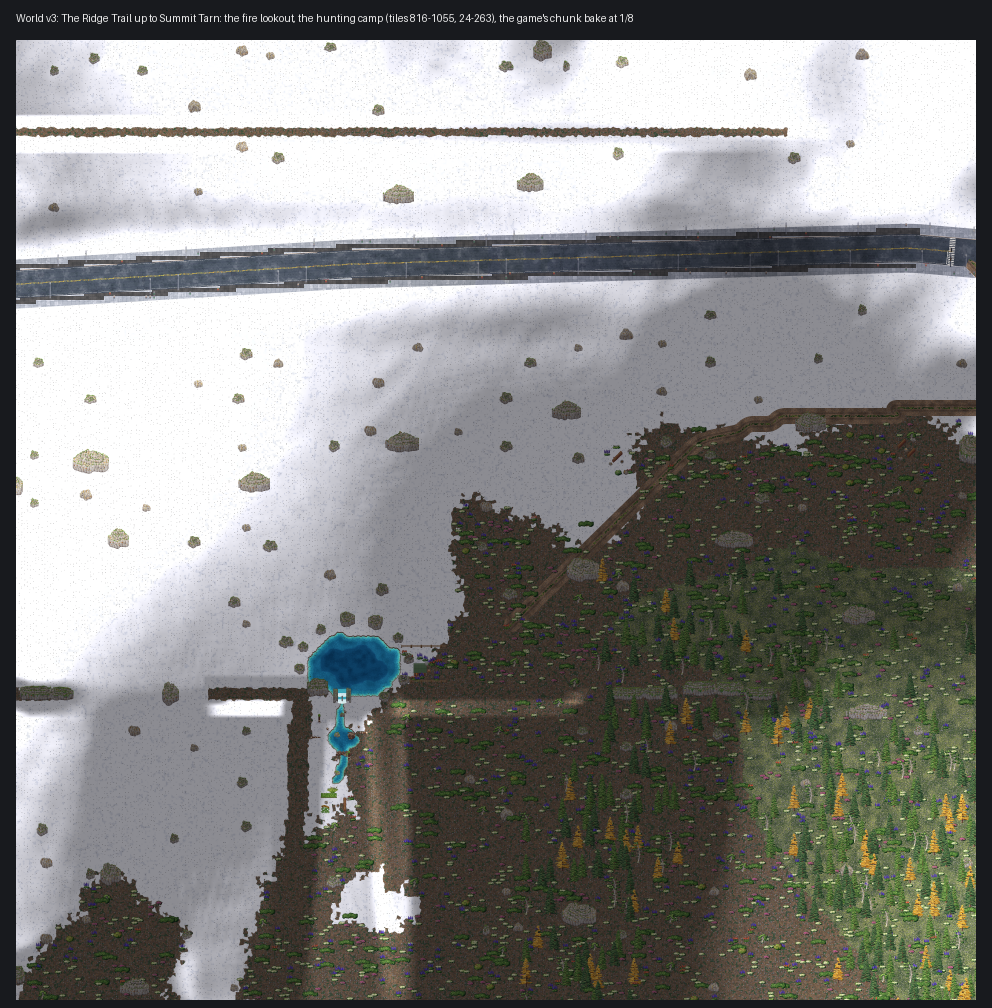
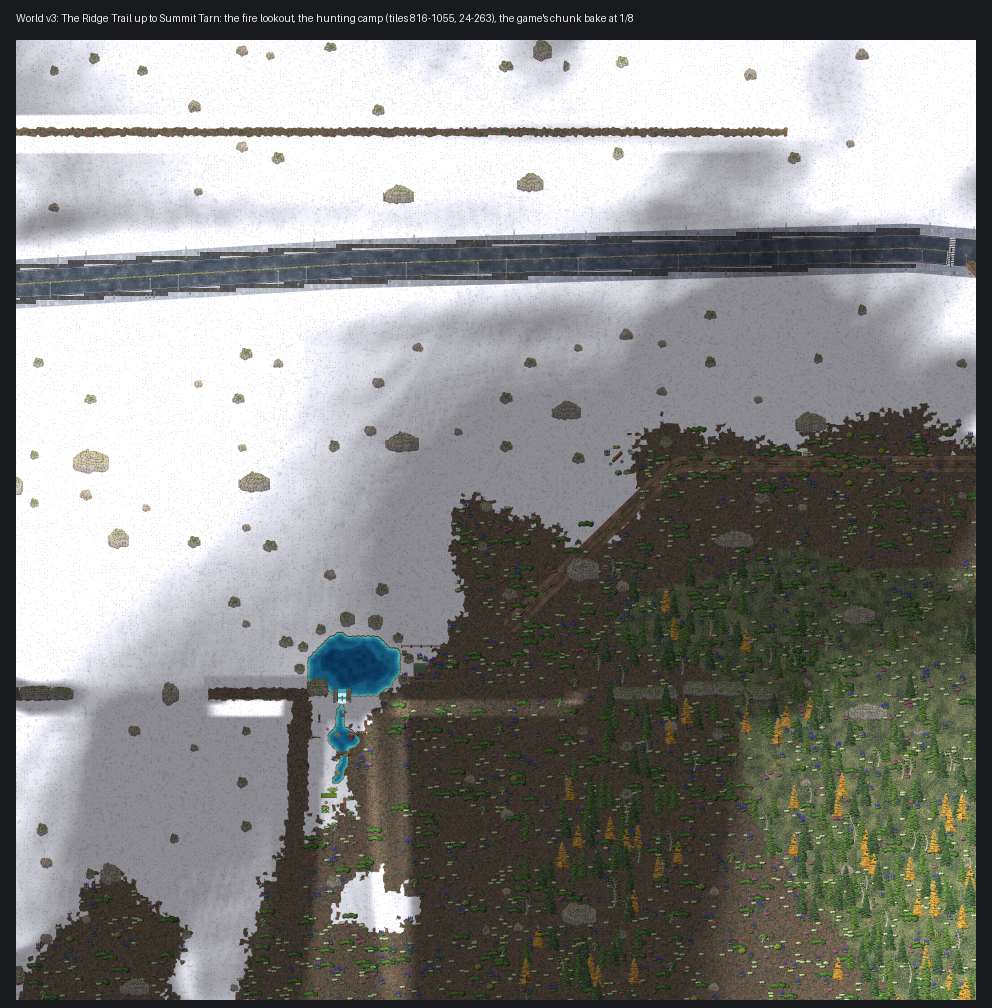
World v3 8.22 (H50): the tracks keep off the build's own snow, their points evenly spaced; the small mesas kept off the tables by the rim's own distance; the pictures again
Claude-Session: https://claude.ai/code/session_015TdwbASoLBxZr1VoEZGToX

Changed region(s): [[0.6875, 0.3998, 1.0, 0.4613], [0.9375, 0.4921, 0.9688, 0.5228], [0.5938, 0.5536, 0.625, 0.5843]]

diff --git a/shared/world3-wild.js b/shared/world3-wild.js
@@ -111,7 +111,7 @@ export const WILD_VIEWS = [
   { key: 'route9', name: 'The Route 9 stop, the solar farm and the drive-in on Route 9', box: [3760, 1420, 4230, 1590] },
   // (H47)
   { key: 'redwoods', name: 'Redwood Creek, its falls and the beaver pond; Giants Loop, the hunting lodge and Fern Gorge on Timber Road', box: [500, 1080, 720, 1180] },
-  { key: 'ridge', name: 'The Ridge Trail up to Summit Tarn: the fire lookout, the hunting camp', box: [860, 60, 1010, 225] },
+  { key: 'ridge', name: 'The Ridge Trail up to Summit Tarn: the fire lookout, the hunting camp', box: [860, 60, 1110, 225] },   // (H50: east to its start on Summit Road)
   { key: 'oldmine', name: 'The Old Granite Mine above Lookout Road', box: [680, 400, 820, 500] },
   { key: 'canyon', name: 'Red Rock Canyon and its oasis off Mesa Road; Mirage Lake and its camp', box: [3760, 430, 4010, 800] },
   { key: 'splash', name: 'Splash Canyon Water Park on Mine Road', box: [3990, 1180, 4110, 1260] },
@@ -144,7 +144,7 @@ function placeBoxes() {
   return out;
 }
 
-export function wildSites3(lines, m, L) {
+export function wildSites3(lines, m, L, snowAt) {
   const W = m.w, H = m.h, out = { placed: [], missed: [] };
   const SK = skeletonLines(), hwys = SK.filter((l) => l.kind === 'hwy'), mains = SK.filter((l) => l.kind === 'main');
   const tunnels = (m.world3?.roads?.tunnels || []).map((t) => ({ pts: t.pts.map((p) => (Array.isArray(p) ? p : [p.x / TILE, p.y / TILE])) }));
@@ -247,7 +247,7 @@ export function wildSites3(lines, m, L) {
     for (const p of pts) claimed.push([Math.floor(p.x / TILE) - 3, Math.floor(p.y / TILE) - 3, Math.floor(p.x / TILE) + 4, Math.floor(p.y / TILE) + 4]);
     out.placed.push({ name: S.name, type: S.type, x, y, w: S.w, h: S.h, d: site.d, road: name, joins: [Math.round(best.q.x), Math.round(best.q.y)] });
   }
-  out.tracks = wildTracks3(lines, m, hwys, mains, hwyLines, tunnels, L);
+  out.tracks = wildTracks3(lines, m, hwys, mains, hwyLines, tunnels, L, snowAt);
   // the desert's dry washes (the biomes' gravel bars, reserve 128) kept off the moved desert sites: their ground plain,
   // and each wash ending 6-14 tiles short of the box (H50: they read as running under the sites)
   for (const q of MOVED) if (q.keep) {
@@ -268,7 +268,7 @@ export function wildSites3(lines, m, L) {
 // built: world3-relief.js landHeight3 - a mountain trail zigzags), several times over snow, round the desert's tables
 // (their spots, world3-relief.js tableSpots3: the tables are laid after the roads) and with a little wander; the
 // straight way as before when no such way is found (or no land is given).
-function wildTracks3(lines, m, hwys, mains, hwyLines, tunnels, L) {
+function wildTracks3(lines, m, hwys, mains, hwyLines, tunnels, L, snowAt) {
   const W = m.w, H = m.h, out = [], ok = ACCESS.dirt, TR = 160;
   const fine = (a, b, avoid) => {
     const n = Math.max(1, Math.ceil(Math.hypot(b[0] - a[0], b[1] - a[1])));
@@ -300,14 +300,15 @@ function wildTracks3(lines, m, hwys, mains, hwyLines, tunnels, L) {
       }
     }
     starts.sort((a, b) => a.d - b.d || a.x - b.x || a.y - b.y);
-    let way = zAt && starts.length ? trackPath(m, K, starts, zAt, spots, mains, hwyLines, lines, L) : null;
+    let way = zAt && starts.length ? trackPath(m, K, starts, zAt, spots, mains, hwyLines, lines, L, snowAt) : null;
     if (!way) {
       const s = starts.slice(0, 120).find((q) => fine([q.x, q.y], K.end, K.avoid));
       if (s) way = { from: s, pts: [[s.x, s.y], [(s.x + ex) / 2, (s.y + ey) / 2], [ex, ey]], straight: true };
     }
     if (!way) { out.push({ name: K.name, missed: true }); continue; }
-    const pts = rounded(way.pts.map(([x, y]) => ({ x: x * TILE, y: y * TILE })), (way.straight ? 4 : 3) * TILE, false, 8);
+    let pts = rounded(way.pts.map(([x, y]) => ({ x: x * TILE, y: y * TILE })), (way.straight ? 4 : 3) * TILE, false, 8);
     measure(pts);
+    if (!way.straight) pts = evenly(pts, 2 * TILE);   // (a point every 2 tiles: what stands 'part way along' it - the fire lookout, a camp - goes by its length)
     lines.push({ pts, kind: 'dirt', lvl: 0, name: K.name, culdesac: true });
     for (let j = 0; j < pts.length; j++) { const i = Math.floor(pts[j].y / TILE) * W + Math.floor(pts[j].x / TILE); if (i >= 0 && i < W * H) m.reserve[i] |= 32; }
     out.push({ name: K.name, from: [Math.round(way.from.x), Math.round(way.from.y)], to: K.end, len: Math.round(pts[pts.length - 1].s / TILE), straight: Math.round(way.from.d), ...(way.straight && { fallback: true }) });
@@ -321,7 +322,7 @@ function wildTracks3(lines, m, hwys, mains, hwyLines, tunnels, L) {
 // ramp, 10 of the main line, in K.avoid. Its corners simplified (1.2 tiles). Returns { from, pts: [[x, y] tiles] } or
 // null.
 const TG = 2, TPAD = 40, WANDER = 0.55;
-function trackPath(m, K, starts, zAt, spots, mains, hwyLines, lines, L) {
+function trackPath(m, K, starts, zAt, spots, mains, hwyLines, lines, L, snowAt) {
   const W = m.w, H = m.h, [ex, ey] = K.end;
   let x0 = ex, y0 = ey, x1 = ex, y1 = ey;
   for (const q of starts) { x0 = Math.min(x0, q.x); y0 = Math.min(y0, q.y); x1 = Math.max(x1, q.x); y1 = Math.max(y1, q.y); }
@@ -343,7 +344,7 @@ function trackPath(m, K, starts, zAt, spots, mains, hwyLines, lines, L) {
     if (wet) continue;
     const i = ty * W + tx;
     let k = WANDER + 1.1 * reliefNoise(tx, ty, 28, 7621 + K.end[0]);
-    if (m.dist[i] === D3.PEAKS && (L.terrain[i] === TERRAIN3.ROCK || L.terrain[i] === TERRAIN3.SCRUB) && peakHeight(tx, ty) >= SNOW_LINE) k *= 20;   // (the snow: the bare peaks above the snow line, as world3-world.js's SNOW_CLS)
+    if (snowAt ? snowAt(tx, ty) : m.dist[i] === D3.PEAKS && (L.terrain[i] === TERRAIN3.ROCK || L.terrain[i] === TERRAIN3.SCRUB) && peakHeight(tx, ty) >= SNOW_LINE) k *= 20;   // (the snow: the bare peaks above the snow line - world3-world.js's SNOW_CLS, from the world build)
     if (rd[(ty - y0) * BW + tx - x0]) k *= 6;
     for (const t of spots) if (((tx - t.x) / (t.rx + 18)) ** 2 + ((ty - t.y) / (t.ry + 18)) ** 2 < 1) { k *= 8; break; }
     cost[c] = k;
@@ -385,6 +386,18 @@ function trackPath(m, K, starts, zAt, spots, mains, hwyLines, lines, L) {
   const s0 = starts[src[goal]];
   P[0] = [s0.x, s0.y]; P[P.length - 1] = [ex, ey];
   return { from: s0, pts: simplify(P, 1.2) };
+}
+// a measured polyline again with a point every `step` px along it (its first and last kept), measured
+function evenly(P, step) {
+  const L = P[P.length - 1].s, out = [{ x: P[0].x, y: P[0].y }];
+  for (let s = step, k = 1; s < L - step / 2; s += step) {
+    while (k < P.length - 1 && P[k].s < s) k++;
+    const a = P[k - 1], b = P[k], f = (s - a.s) / ((b.s - a.s) || 1);
+    out.push({ x: a.x + (b.x - a.x) * f, y: a.y + (b.y - a.y) * f });
+  }
+  out.push({ x: P[P.length - 1].x, y: P[P.length - 1].y });
+  measure(out);
+  return out;
 }
 // Douglas-Peucker: the polyline's points within eps (tiles) of the line between the kept ones dropped
 function simplify(P, eps) {

diff --git a/test/world3relief.test.js b/test/world3relief.test.js
@@ -99,7 +99,7 @@ test('World v3: the land\'s relief - heights, cliff bands off the roads, the lan
     const east = own.filter((p) => p.x / TILE > t.x + t.rx * 0.6).length, west = own.filter((p) => p.x / TILE < t.x - t.rx * 0.6).length;
     check([north, south, east, west].filter((n) => n > 0).length >= 3 && north + south + east + west >= 8, `the table at ${t.x}, ${t.y}: sandstone faces north ${north}, south ${south}, east ${east}, west ${west} (a road's cutting may open one side)`);
   }
-  const towers = m.props.filter((p) => p.t === 'outcrop' && p.style === 'sandstone' && (m.tables || []).some((t) => tableEdge(t, p.x / TILE, p.y / TILE) < 16));
+  const towers = m.props.filter((p) => p.t === 'outcrop' && p.style === 'sandstone' && p.s < 4 && (m.tables || []).some((t) => tableEdge(t, p.x / TILE, p.y / TILE) < 16));   // (dress3's: s 0-3 - 8.18's lookout rock and hoodoos stand on its mesa by design)
   check(towers.length === 0, `small mesas on the tables or their talus: ${towers.length}`);
   let thin = 0;
   for (let y = 1; y < H - 1; y++) for (let x = 1; x < W - 1; x++) {
@@ -121,7 +121,7 @@ test('World v3: the land\'s relief - heights, cliff bands off the roads, the lan
   // (H50) the hillshade over the canopy: a chunk on Lookout Hill's slope baked with and without the relief - the trees'
   // crowns (what stands over 8 px) shaded too
   await loadProviders();
-  const [lx, ly] = HIGH_SPOTS[0][1], ccx = Math.floor((lx + 30) * TILE / 768), ccy = Math.floor((ly + 30) * TILE / 768), opt = { quality: 1, seed: 1337, artPx: 2 };
+  const [lx, ly] = HIGH_SPOTS[0][1], ccx = Math.floor((lx + 20) * TILE / 768), ccy = Math.floor(ly * TILE / 768), opt = { quality: 1, seed: 1337, artPx: 2 };   // (the orchard on its south-east slope)
   const withR = bakeChunk(m, ccx, ccy, opt, null, providers).g, keep = m.relief;
   m.relief = null;
   const without = bakeChunk(m, ccx, ccy, opt, null, providers).g;

diff --git a/shared/world3-biomes.js b/shared/world3-biomes.js
@@ -121,8 +121,9 @@ export function dress3(m, L, keep, H) {
   // flats, fewer still round the tables)
   const tabs = m.tables || [];
   const nearTable = (tx, ty, pad, k = 1) => tabs.some((t) => ((tx - t.x) / (t.rx * k + pad)) ** 2 + ((ty - t.y) / (t.ry * k + pad)) ** 2 < 1);
-  // (on a table, its rim or its talus: the tables' squarish rim - a superellipse, ragged by up to a ninth - and a pad)
-  const onTable = (tx, ty, pad) => tabs.some((t) => { const a = (tx - t.x) / (t.rx * 1.12 + pad), b = (ty - t.y) / (t.ry * 1.12 + pad); return a * a * a * a + b * b * b * b < 1; });
+  // (on a table, its rim or its talus, pad tiles out: the tables' squarish rim - a superellipse whose distance runs on its
+  // short radius, ragged by up to a ninth: world3-relief.js tableEdge)
+  const onTable = (tx, ty, pad) => tabs.some((t) => { const a = (tx - t.x) / t.rx, b = (ty - t.y) / t.ry, l = (1 + pad / Math.min(t.rx, t.ry)) * 1.13, l2 = l * l; return a * a * a * a + b * b * b * b < l2 * l2; });
   for (let gy = 0; gy < HH; gy += 36) for (let gx = 0; gx < W; gx += 36) {
     const tx = gx + 6 + Math.floor(hash2(gx, gy, 5501) * 24), ty = gy + 6 + Math.floor(hash2(gx, gy, 5502) * 24);
     if (tx >= W - 8 || ty >= HH - 8) continue;

diff --git a/shared/world3-world.js b/shared/world3-world.js
@@ -245,7 +245,7 @@ export function worldOpts(asked) {
       m.world3.mesa = { painted: mesa, streets: layMesa3(lines, m) };   // (Lucky Mesa's Strip and side streets: shared/world3-mesa.js, 8.15)
       m.world3.desert = { painted: desert, streets: layDesert3(lines, m) };   // (Copper Gulch's main street and side streets: shared/world3-desert.js, 8.18)
       m.world3.west = { painted: west, streets: layWest3(lines, m) };   // (Egret Point's Harbor Road, Light Road, Raceway Road: shared/world3-west.js, 8.20)
-      m.world3.wild = wildSites3(lines, m, L);   // (H44, 8.19: today's wild land's country sites at their v3 spots, each with its road in: shared/world3-wild.js)
+      m.world3.wild = wildSites3(lines, m, L, (tx, ty) => L.dist[ty * W + tx] === 48 && peakHeight(tx, ty) >= SNOW_LINE && (!m.terrainCls || cls(tx, ty, (x, y) => terrainAt(m.terrainCls.cls, m.terrainCls.cw, x, y)) === 4));   // (H50: the snow the done hook paints - the tracks keep off it; H44, 8.19: today's wild land's country sites at their v3 spots, each with its road in: shared/world3-wild.js)
     },
   };
   return o;

diff --git a/docs/WORLD-V3.md b/docs/WORLD-V3.md
@@ -4121,7 +4121,25 @@ before.
   hook reads it), 20 times over snow, 8 on a desert table's spot (`tableSpots3`: the tables are laid after the roads),
   6 on another road (a track leaves its road and keeps off the others), 0.55-1.65 by a slow noise (the wander); never
   on water or within 2 tiles of it, 4 of a highway, 10 of the main line; simplified to 1.2 tiles and rounded (3-tile
-  corners). The straight way stays as the fallback. The relief keeps its cliff bands GRADE_R off a dirt track's line.
+  corners). The snow is the world build's own (the done hook's SNOW_CLS test, handed to `wildSites3`). The straight way
+  stays as the fallback. The relief keeps its cliff bands GRADE_R off a dirt track's line.
+
+**The pictures** (`tools/world3-world-map.mjs --sample 0 --region 8,1 --towns --only
+hollow,canyon,ridge,silverfalls,northcape,lookouthill`): `docs/world-v3-world-r8-1.png` (baked before the last fixes: the
+small mesas kept off the tables' corners, the warmer tops), `docs/world-v3-town-hollow.png`, `-canyon.png`, `-ridge.png`,
+`-silverfalls.png`, `-northcape.png`, `-lookouthill.png` (new: Lookout Hill's orchard). What looks right: the tables
+read as mesas - a red sandstone rim all round with its faces, the talus scattered at the foot, each top its own red
+rock and pale hardpan; the plain between them open, a few buttes; the lookout's mesa with the jeep track through a gap
+in its south rim and no red line west of it; Red Rock Canyon's floor the desert's ground, its rock at its walls, no
+flat red rectangle; the Canyon Track and the Mirage Track winding in; the woods on the falls' escarpment, North Cape's
+headland under the redwoods and Lookout Hill's orchard shaded with the land. What's still wrong:
+- **The canyon's rock is still a block** with straight south and west edges (the painting's walls fill its box's bottom
+  rows; their tiles are solid, so the bake doesn't paint them as ground), and the cut's shade reads as dark smudges round
+  the oasis: building the canyon from the relief (a cut with walls of its own, the oasis and the wash placed in it, the
+  painting left out) would end both.
+- The tables' tops: the patches of red rock and hardpan are blocky at 1/8 (tile-sized edges); the north rims' low lips
+  read as a red band rather than an edge seen from above.
+- The snowfields' hillshade (H48's): the crags' steps read as dark smudges on the white - the snow wants a softer shade.
 
 Tests: `test/world3relief.test.js` (as before, and: `m.tables` as the relief's, the bake's rim the relief's; sandstone
 faces on three sides of each table at least; no 8.8 mesa on a table or its talus; no band under two tiles thick; the

diff --git a/docs/DEVLOG.md b/docs/DEVLOG.md
@@ -8069,7 +8069,7 @@ and the Ridge Trail and its fire lookout stand on the snowfield".
 
 Files: shared/world3-relief.js (tableSpots3, tableEdge, landHeight3, canyonCut, the sandstone rims, the bands' thickness,
 m.tables, a dirt track's line kept clear), shared/world3-biomes.js (dress3: the small mesas off the tables), shared/world3-wild.js
-(trackPath, the washes' ends, the Lookout Hill view), shared/world3-world.js (wildSites3 gets the land: one line),
+(trackPath, the washes' ends, the Lookout Hill view), shared/world3-world.js (wildSites3 gets the land and the build's own snow: one line),
 client/art2/game/groundbake.js (the cap rock and the talus, the canyon's floor and rock, shadeRelief),
 client/art2/game/chunkbake.js (the hillshade after the statics), client/art2/game/statics.js (the cliff's sandstone),
 test/world3relief.test.js, test/world3wild.test.js, docs/WORLD-V3.md 8.22 (and 8.19's notes), docs/world-v3-world-r8-1.png,
